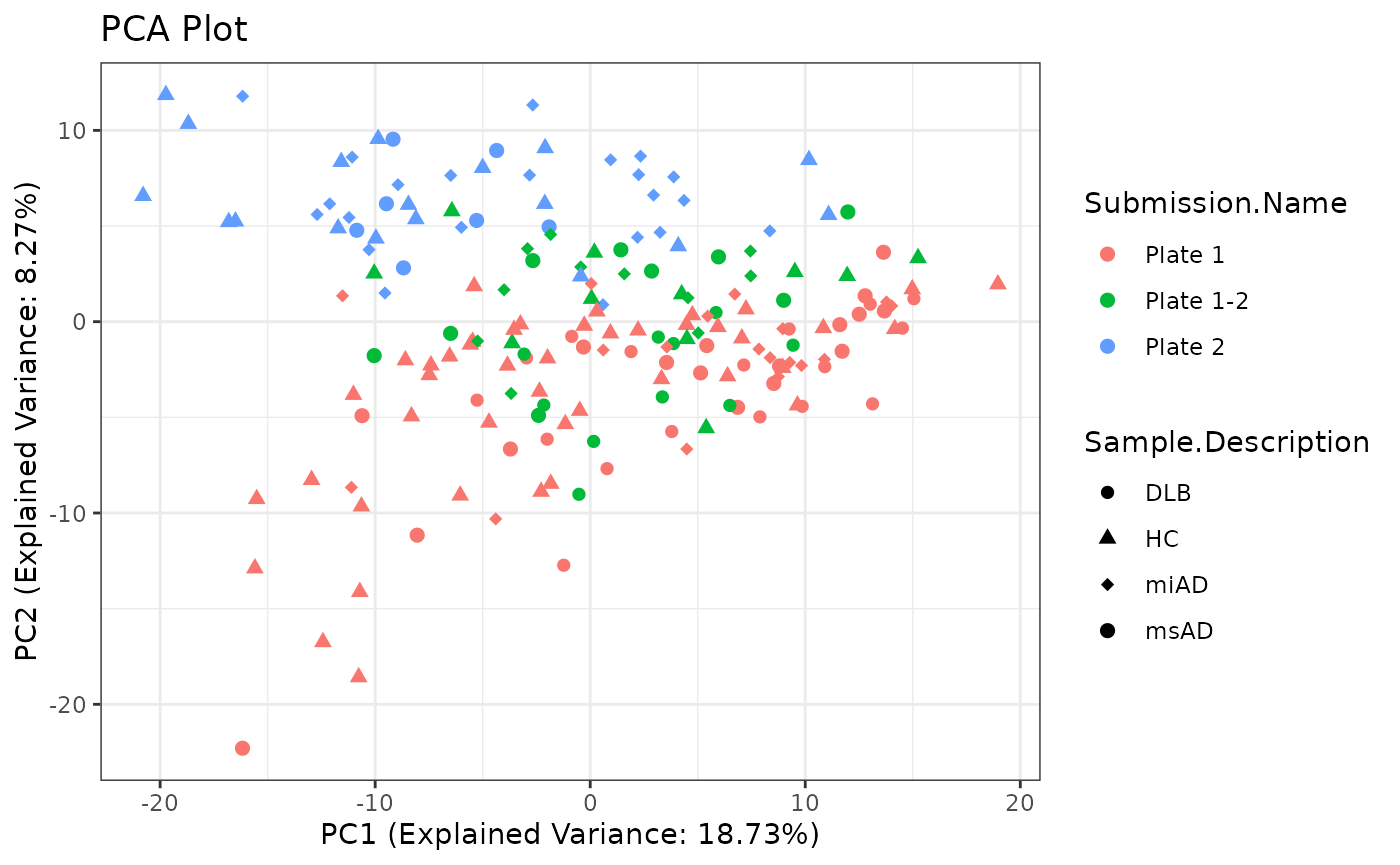
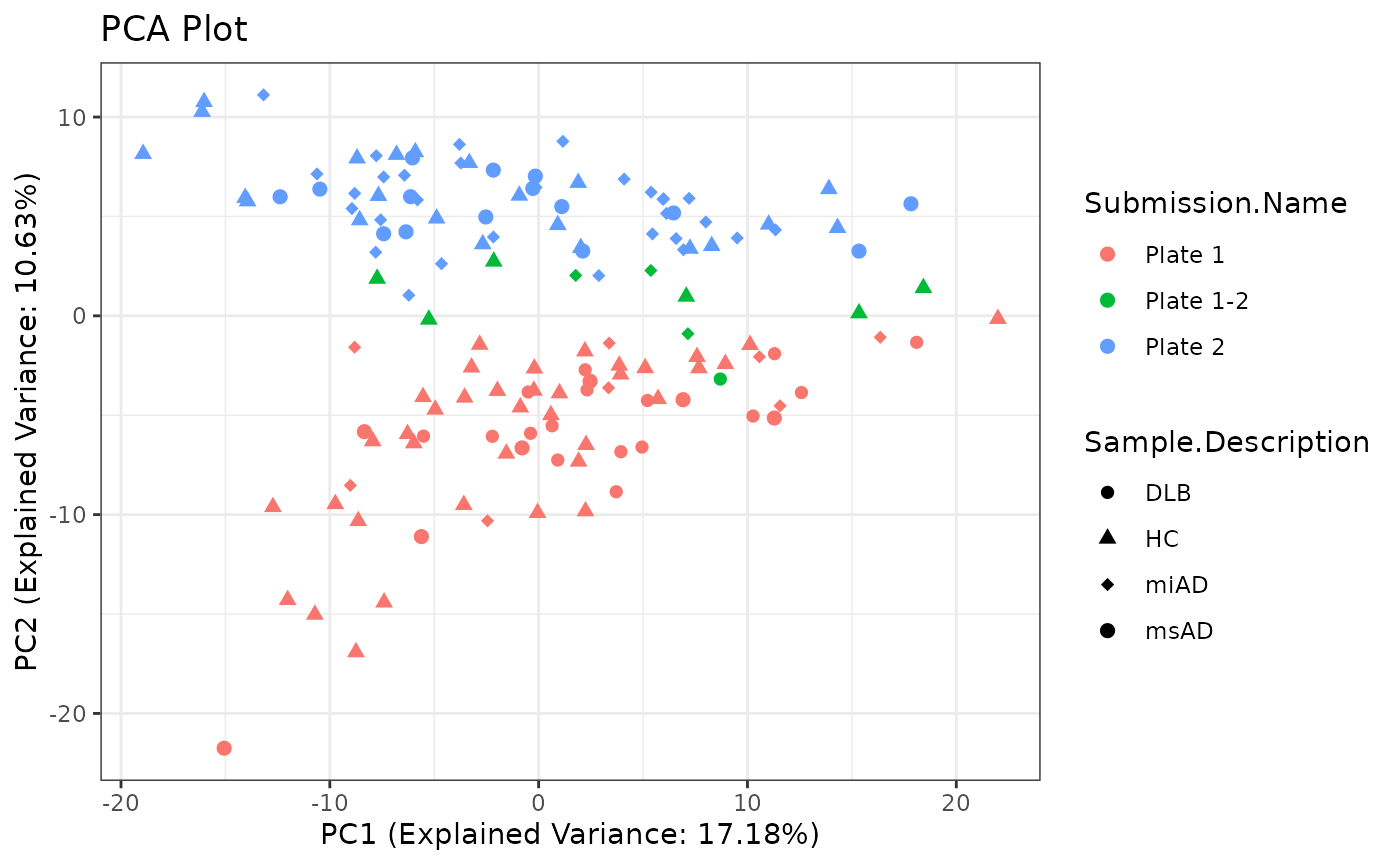
Deploying to gh-pages from @ danymukesha/dataPreparation@fd669b778015ecc51c47ba1c75c827176c8e0241 🚀

diff --git a/articles/dataProcessing_phase_2.html b/articles/dataProcessing_phase_2.html
@@ -420,6 +420,67 @@ interpretation.</p>
 <p><img src="dataProcessing_phase_2_files/figure-html/unnamed-chunk-18-1.png" width="700"></p>
 </div>
 <div class="section level2">
+<h2 id="performing-principal-component-analysis-pca-after-batch-effect-correction">Performing Principal Component Analysis (PCA After Batch Effect
+Correction)<a class="anchor" aria-label="anchor" href="#performing-principal-component-analysis-pca-after-batch-effect-correction"></a>
+</h2>
+<p>Principal Component Analysis (PCA) is a dimensionality reduction
+technique that helps visualize the variation in the dataset. Here, I
+perform PCA on the preprocessed data and create a PCA plot for
+visualization.</p>
+<div class="sourceCode" id="cb20"><pre class="downlit sourceCode r">
+<code class="sourceCode R"><span><span class="va">t</span> <span class="op">&lt;-</span> <span class="va">rBE</span></span>
+<span><span class="co"># Perform PCA</span></span>
+<span><span class="va">pca_result</span> <span class="op">&lt;-</span> <span class="fu"><a href="https://rdrr.io/r/stats/prcomp.html" class="external-link">prcomp</a></span><span class="op">(</span><span class="va">t</span>, scale. <span class="op">=</span> <span class="cn">TRUE</span>, center <span class="op">=</span> <span class="cn">TRUE</span><span class="op">)</span></span>
+<span></span>
+<span><span class="co"># Extract PCA scores</span></span>
+<span><span class="va">pca_scores</span> <span class="op">&lt;-</span> <span class="fu"><a href="https://rdrr.io/r/base/as.data.frame.html" class="external-link">as.data.frame</a></span><span class="op">(</span><span class="va">pca_result</span><span class="op">$</span><span class="va">x</span><span class="op">)</span></span>
+<span></span>
+<span><span class="co"># Combine PCA scores with categories for visualization</span></span>
+<span><span class="va">pca_data</span> <span class="op">&lt;-</span> <span class="fu"><a href="https://rdrr.io/r/base/cbind.html" class="external-link">cbind</a></span><span class="op">(</span><span class="va">pca_scores</span>, <span class="va">imputed_data</span><span class="op">$</span><span class="va">categories</span><span class="op">)</span></span>
+<span></span>
+<span><span class="co"># Create PCA plot</span></span>
+<span><span class="va">pca_plot</span> <span class="op">&lt;-</span> <span class="fu">ggplot2</span><span class="fu">::</span><span class="fu"><a href="https://ggplot2.tidyverse.org/reference/ggplot.html" class="external-link">ggplot</a></span><span class="op">(</span><span class="va">pca_data</span>, </span>
+<span>                            <span class="fu">ggplot2</span><span class="fu">::</span><span class="fu"><a href="https://ggplot2.tidyverse.org/reference/aes.html" class="external-link">aes</a></span><span class="op">(</span>x <span class="op">=</span> <span class="va">PC1</span>, y <span class="op">=</span> <span class="va">PC2</span>, </span>
+<span>                                         color <span class="op">=</span> <span class="va">Submission.Name</span>, </span>
+<span>                                         shape <span class="op">=</span> <span class="va">Sample.Description</span><span class="op">)</span><span class="op">)</span> <span class="op">+</span></span>
+<span>    <span class="fu">ggplot2</span><span class="fu">::</span><span class="fu"><a href="https://ggplot2.tidyverse.org/reference/geom_point.html" class="external-link">geom_point</a></span><span class="op">(</span>size <span class="op">=</span> <span class="fl">2</span><span class="op">)</span> <span class="op">+</span></span>
+<span>    <span class="fu">ggplot2</span><span class="fu">::</span><span class="fu"><a href="https://ggplot2.tidyverse.org/reference/scale_manual.html" class="external-link">scale_shape_manual</a></span><span class="op">(</span>values <span class="op">=</span> <span class="fu"><a href="https://rdrr.io/r/base/c.html" class="external-link">c</a></span><span class="op">(</span><span class="fl">16</span>, <span class="fl">17</span>, <span class="fl">18</span>, <span class="fl">19</span><span class="op">)</span><span class="op">)</span> <span class="op">+</span></span>
+<span>    <span class="fu">ggplot2</span><span class="fu">::</span><span class="fu"><a href="https://ggplot2.tidyverse.org/reference/ggtheme.html" class="external-link">theme_bw</a></span><span class="op">(</span><span class="op">)</span> <span class="op">+</span></span>
+<span>    <span class="fu">ggplot2</span><span class="fu">::</span><span class="fu"><a href="https://ggplot2.tidyverse.org/reference/labs.html" class="external-link">labs</a></span><span class="op">(</span></span>
+<span>      title <span class="op">=</span> <span class="st">"PCA Plot (After Batch Effect Correction)"</span>,</span>
+<span>      x <span class="op">=</span> <span class="fu"><a href="https://rdrr.io/r/base/paste.html" class="external-link">paste0</a></span><span class="op">(</span></span>
+<span>        <span class="st">"PC1 (Explained Variance: "</span>,</span>
+<span>        <span class="fu"><a href="https://rdrr.io/r/base/Round.html" class="external-link">round</a></span><span class="op">(</span><span class="va">pca_result</span><span class="op">$</span><span class="va">sdev</span><span class="op">[</span><span class="fl">1</span><span class="op">]</span> <span class="op">^</span> <span class="fl">2</span> <span class="op">/</span> <span class="fu"><a href="https://rdrr.io/r/base/sum.html" class="external-link">sum</a></span><span class="op">(</span><span class="va">pca_result</span><span class="op">$</span><span class="va">sdev</span> <span class="op">^</span> <span class="fl">2</span><span class="op">)</span> <span class="op">*</span> <span class="fl">100</span>, <span class="fl">2</span><span class="op">)</span>,</span>
+<span>        <span class="st">"%)"</span></span>
+<span>      <span class="op">)</span>,</span>
+<span>      y <span class="op">=</span> <span class="fu"><a href="https://rdrr.io/r/base/paste.html" class="external-link">paste0</a></span><span class="op">(</span></span>
+<span>        <span class="st">"PC2 (Explained Variance: "</span>,</span>
+<span>        <span class="fu"><a href="https://rdrr.io/r/base/Round.html" class="external-link">round</a></span><span class="op">(</span><span class="va">pca_result</span><span class="op">$</span><span class="va">sdev</span><span class="op">[</span><span class="fl">2</span><span class="op">]</span> <span class="op">^</span> <span class="fl">2</span> <span class="op">/</span> <span class="fu"><a href="https://rdrr.io/r/base/sum.html" class="external-link">sum</a></span><span class="op">(</span><span class="va">pca_result</span><span class="op">$</span><span class="va">sdev</span> <span class="op">^</span> <span class="fl">2</span><span class="op">)</span> <span class="op">*</span> <span class="fl">100</span>, <span class="fl">2</span><span class="op">)</span>,</span>
+<span>        <span class="st">"%)"</span></span>
+<span>      <span class="op">)</span></span>
+<span>    <span class="op">)</span></span>
+<span></span>
+<span><span class="co"># Display PCA plot</span></span>
+<span><span class="va">pca_plot</span></span></code></pre></div>
+<p><img src="dataProcessing_phase_2_files/figure-html/unnamed-chunk-20-1.png" width="700"></p>
+<div class="sourceCode" id="cb21"><pre class="downlit sourceCode r">
+<code class="sourceCode R"><span><span class="va">imputed_data</span><span class="op">$</span><span class="va">rBE</span> <span class="op">&lt;-</span> <span class="va">rBE</span></span>
+<span><span class="fu"><a href="https://rdrr.io/r/utils/write.table.html" class="external-link">write.csv</a></span><span class="op">(</span>x <span class="op">=</span> <span class="va">imputed_data</span><span class="op">$</span><span class="va">rBE</span>, </span>
+<span>          file <span class="op">=</span> <span class="st">"../inst/data_to_use/imputed_data_after_Batch_Correction.csv"</span>, </span>
+<span>          row.names <span class="op">=</span> <span class="cn">FALSE</span><span class="op">)</span></span>
+<span><span class="fu">usethis</span><span class="fu">::</span><span class="fu"><a href="https://usethis.r-lib.org/reference/use_data.html" class="external-link">use_data</a></span><span class="op">(</span><span class="va">imputed_data</span>, overwrite <span class="op">=</span> <span class="cn">TRUE</span><span class="op">)</span></span>
+<span><span class="co">#&gt; <span style="color: #00BB00;">✔</span> Setting active project to <span style="color: #0000BB;">'/home/runner/work/dataPreparation/dataPreparation'</span></span></span>
+<span><span class="co">#&gt; <span style="color: #00BB00;">✔</span> Saving <span style="color: #0000BB;">'imputed_data'</span> to <span style="color: #0000BB;">'data/imputed_data.rda'</span></span></span>
+<span><span class="co">#&gt; <span style="color: #BB0000;">•</span> Document your data (see <span style="color: #0000BB;">'https://r-pkgs.org/data.html'</span>)</span></span></code></pre></div>
+<div class="sourceCode" id="cb22"><pre class="downlit sourceCode r">
+<code class="sourceCode R"><span><span class="fu"><a href="https://rdrr.io/r/grDevices/png.html" class="external-link">png</a></span><span class="op">(</span><span class="st">"../man/figures/pca_plot_after_Batch_Correction.png"</span>, </span>
+<span>    width<span class="op">=</span><span class="fl">1600</span>, height<span class="op">=</span><span class="fl">1200</span>, res<span class="op">=</span><span class="fl">220</span><span class="op">)</span></span>
+<span><span class="fu"><a href="https://rdrr.io/r/base/print.html" class="external-link">print</a></span><span class="op">(</span><span class="va">pca_plot</span><span class="op">)</span></span>
+<span><span class="fu"><a href="https://rdrr.io/r/grDevices/dev.html" class="external-link">dev.off</a></span><span class="op">(</span><span class="op">)</span> </span>
+<span><span class="co">#&gt; agg_png </span></span>
+<span><span class="co">#&gt;       2</span></span></code></pre></div>
+</div>
+<div class="section level2">
 <h2 id="conclusion">Conclusion<a class="anchor" aria-label="anchor" href="#conclusion"></a>
 </h2>
 <p>In conclusion, this report highlights the importance of comprehensive
@@ -433,7 +494,8 @@ understanding of biological phenomena.</p>
 <div class="section level2">
 <h2 id="clean-up-environment">Clean up environment<a class="anchor" aria-label="anchor" href="#clean-up-environment"></a>
 </h2>
-<p>rm(list = ls())</p>
+<div class="sourceCode" id="cb23"><pre class="downlit sourceCode r">
+<code class="sourceCode R"><span><span class="fu"><a href="https://rdrr.io/r/base/rm.html" class="external-link">rm</a></span><span class="op">(</span>list <span class="op">=</span> <span class="fu"><a href="https://rdrr.io/r/base/ls.html" class="external-link">ls</a></span><span class="op">(</span><span class="op">)</span><span class="op">)</span></span></code></pre></div>
 </div>
   </main><aside class="col-md-3"><nav id="toc"><h2>On this page</h2>
     </nav></aside>

diff --git a/articles/dataProcessing_phase_1.html b/articles/dataProcessing_phase_1.html
@@ -106,7 +106,7 @@ normalized data. This data will be used for subsequent preprocessing
 steps.</p>
 <div class="sourceCode" id="cb2"><pre class="downlit sourceCode r">
 <code class="sourceCode R"><span><span class="co"># Read the Excel file containing normalized data</span></span>
-<span><span class="va">data</span> <span class="op">&lt;-</span> <span class="fu"><a href="https://rdrr.io/r/utils/read.table.html" class="external-link">read.table</a></span><span class="op">(</span><span class="st">"../inst/extdata/allbatches_uM_clean.txt"</span>, </span>
+<span><span class="va">data</span> <span class="op">&lt;-</span> <span class="fu"><a href="https://rdrr.io/r/utils/read.table.html" class="external-link">read.table</a></span><span class="op">(</span><span class="st">"../inst/extdata/allbatches_uM_clean_second_experiment.txt"</span>, </span>
 <span>                   sep <span class="op">=</span> <span class="st">"\t"</span>, header <span class="op">=</span> <span class="cn">TRUE</span><span class="op">)</span></span></code></pre></div>
 </div>
 </div>
@@ -228,12 +228,12 @@ analysis.</p>
 <span><span class="co">#&gt; <span style="color: #949494;"># A tibble: 6 × 416</span></span></span>
 <span><span class="co">#&gt;   Sample.Type Sample.Identification Gender   Age Sample.Description</span></span>
 <span><span class="co">#&gt;   <span style="color: #949494; font-style: italic;">&lt;chr&gt;</span>       <span style="color: #949494; font-style: italic;">&lt;chr&gt;</span>                 <span style="color: #949494; font-style: italic;">&lt;chr&gt;</span>  <span style="color: #949494; font-style: italic;">&lt;int&gt;</span> <span style="color: #949494; font-style: italic;">&lt;chr&gt;</span>             </span></span>
-<span><span class="co">#&gt; <span style="color: #BCBCBC;">1</span> Sample      F1800067              Female    93 DLB               </span></span>
-<span><span class="co">#&gt; <span style="color: #BCBCBC;">2</span> Sample      F1701006              Male      68 DLB               </span></span>
-<span><span class="co">#&gt; <span style="color: #BCBCBC;">3</span> Sample      F1915899              Female    78 msAD              </span></span>
-<span><span class="co">#&gt; <span style="color: #BCBCBC;">4</span> Sample      F1912538              Male      63 msAD              </span></span>
-<span><span class="co">#&gt; <span style="color: #BCBCBC;">5</span> Sample      F1815069              Male      83 miAD              </span></span>
-<span><span class="co">#&gt; <span style="color: #BCBCBC;">6</span> Sample      F1705317              Female    78 miAD              </span></span>
+<span><span class="co">#&gt; <span style="color: #BCBCBC;">1</span> Sample      F1815069              Male      83 miAD              </span></span>
+<span><span class="co">#&gt; <span style="color: #BCBCBC;">2</span> Sample      F1705317              Female    78 miAD              </span></span>
+<span><span class="co">#&gt; <span style="color: #BCBCBC;">3</span> Sample      F1702273              Female    67 DLB               </span></span>
+<span><span class="co">#&gt; <span style="color: #BCBCBC;">4</span> Sample      F1800377              Male      80 HC                </span></span>
+<span><span class="co">#&gt; <span style="color: #BCBCBC;">5</span> Sample      F1800082              Male      55 msAD              </span></span>
+<span><span class="co">#&gt; <span style="color: #BCBCBC;">6</span> Sample      F1823473              Female    85 HC                </span></span>
 <span><span class="co">#&gt; <span style="color: #949494;"># ℹ 411 more variables: Submission.Name &lt;chr&gt;, Material &lt;chr&gt;, AC.0.0. &lt;dbl&gt;,</span></span></span>
 <span><span class="co">#&gt; <span style="color: #949494;">#   AC.2.0. &lt;dbl&gt;, AC.3.0. &lt;dbl&gt;, AC.3.0.DC. &lt;dbl&gt;, AC.3.0.OH. &lt;dbl&gt;,</span></span></span>
 <span><span class="co">#&gt; <span style="color: #949494;">#   AC.3.1. &lt;dbl&gt;, AC.4.0. &lt;dbl&gt;, AC.4.0.DC. &lt;dbl&gt;, AC.4.0.OH. &lt;dbl&gt;,</span></span></span>
@@ -355,29 +355,29 @@ missingness and imputing missing values using the k-nearest neighbors
 <span><span class="co"># Remove rows with high missingness and impute missing values with k-nearest neighbors (knn)</span></span>
 <span><span class="va">elaborated_data</span> <span class="op">&lt;-</span> <span class="fu">dataPreparation</span><span class="fu">::</span><span class="fu"><a href="../reference/remove_high_missingness.html">remove_high_missingness</a></span><span class="op">(</span><span class="va">data</span><span class="op">)</span></span>
 <span><span class="co">#&gt; Columns removed due to more than 10 % missing values:</span></span>
-<span><span class="co">#&gt; AC.4.0. : 14.59459 % missing</span></span>
-<span><span class="co">#&gt; AC.4.0.DC. : 12.97297 % missing</span></span>
-<span><span class="co">#&gt; AC.4.1. : 14.59459 % missing</span></span>
-<span><span class="co">#&gt; AC.4.1.DC. : 12.97297 % missing</span></span>
-<span><span class="co">#&gt; AC.5.0.DC. : 12.97297 % missing</span></span>
-<span><span class="co">#&gt; AC.5.0.OH. : 12.97297 % missing</span></span>
-<span><span class="co">#&gt; AC.5.1.DC. : 12.97297 % missing</span></span>
-<span><span class="co">#&gt; AC.6.0. : 12.97297 % missing</span></span>
-<span><span class="co">#&gt; AC.6.0.DC. : 12.97297 % missing</span></span>
-<span><span class="co">#&gt; AC.6.1. : 12.97297 % missing</span></span>
-<span><span class="co">#&gt; AC.7.0. : 12.97297 % missing</span></span>
-<span><span class="co">#&gt; Ile : 25.40541 % missing</span></span>
-<span><span class="co">#&gt; xLeu : 41.08108 % missing</span></span>
-<span><span class="co">#&gt; PEA : 25.94595 % missing</span></span>
+<span><span class="co">#&gt; AC.4.0.DC. : 16.43836 % missing</span></span>
+<span><span class="co">#&gt; AC.4.1.DC. : 16.43836 % missing</span></span>
+<span><span class="co">#&gt; AC.5.0.DC. : 16.43836 % missing</span></span>
+<span><span class="co">#&gt; AC.5.0.OH. : 16.43836 % missing</span></span>
+<span><span class="co">#&gt; AC.5.1.DC. : 16.43836 % missing</span></span>
+<span><span class="co">#&gt; AC.6.0. : 16.43836 % missing</span></span>
+<span><span class="co">#&gt; AC.6.0.DC. : 16.43836 % missing</span></span>
+<span><span class="co">#&gt; AC.6.1. : 16.43836 % missing</span></span>
+<span><span class="co">#&gt; AC.7.0. : 16.43836 % missing</span></span>
+<span><span class="co">#&gt; Ile : 32.19178 % missing</span></span>
+<span><span class="co">#&gt; PEA : 32.87671 % missing</span></span>
+<span><span class="co">#&gt; Putrescine : 10.27397 % missing</span></span>
 <span><span class="co">#&gt; </span></span>
 <span><span class="co">#&gt; Rows removed due to more than 10 % missing values:</span></span>
-<span><span class="co">#&gt; Row 153 : 79.4621 % missing</span></span>
+<span><span class="co">#&gt; Row 128 : 79.2176 % missing</span></span>
 <span><span class="co">#&gt; </span></span>
 <span><span class="co">#&gt; Columns removed due to having  0  variance:</span></span>
 <span><span class="co">#&gt; Carnosine  </span></span>
 <span><span class="co">#&gt; LPC.9.0.  </span></span>
 <span><span class="co">#&gt; PC.30.2.  </span></span>
+<span><span class="co">#&gt; PC.34.0.  </span></span>
 <span><span class="co">#&gt; PC.O.31.1.  </span></span>
+<span><span class="co">#&gt; PC.O.33.1.  </span></span>
 <span><span class="co">#&gt; PC.O.33.4.  </span></span>
 <span><span class="co">#&gt; PC.O.38.1.  </span></span>
 <span><span class="co">#&gt; PC.O.44.3.</span></span>
@@ -428,8 +428,10 @@ technique that helps visualize the variation in the dataset. Here, I
 perform PCA on the preprocessed data and create a PCA plot for
 visualization.</p>
 <div class="sourceCode" id="cb15"><pre class="downlit sourceCode r">
-<code class="sourceCode R"><span><span class="co"># Perform PCA</span></span>
-<span><span class="va">pca_result</span> <span class="op">&lt;-</span> <span class="fu"><a href="https://rdrr.io/r/stats/prcomp.html" class="external-link">prcomp</a></span><span class="op">(</span><span class="va">imputed_data</span><span class="op">$</span><span class="va">data</span>, scale. <span class="op">=</span> <span class="cn">TRUE</span>, center <span class="op">=</span> <span class="cn">TRUE</span><span class="op">)</span></span>
+<code class="sourceCode R"><span><span class="co"># remove zero variance columns from the data set</span></span>
+<span><span class="va">t</span> <span class="op">&lt;-</span> <span class="va">imputed_data</span><span class="op">$</span><span class="va">data</span><span class="op">[</span> , <span class="fu"><a href="https://rdrr.io/r/base/which.html" class="external-link">which</a></span><span class="op">(</span><span class="fu"><a href="https://rdrr.io/r/base/apply.html" class="external-link">apply</a></span><span class="op">(</span><span class="va">imputed_data</span><span class="op">$</span><span class="va">data</span>, <span class="fl">2</span>, <span class="va">var</span><span class="op">)</span> <span class="op">!=</span> <span class="fl">0</span><span class="op">)</span><span class="op">]</span></span>
+<span><span class="co"># Perform PCA</span></span>
+<span><span class="va">pca_result</span> <span class="op">&lt;-</span> <span class="fu"><a href="https://rdrr.io/r/stats/prcomp.html" class="external-link">prcomp</a></span><span class="op">(</span><span class="va">t</span>, scale. <span class="op">=</span> <span class="cn">TRUE</span>, center <span class="op">=</span> <span class="cn">TRUE</span><span class="op">)</span></span>
 <span></span>
 <span><span class="co"># Extract PCA scores</span></span>
 <span><span class="va">pca_scores</span> <span class="op">&lt;-</span> <span class="fu"><a href="https://rdrr.io/r/base/as.data.frame.html" class="external-link">as.data.frame</a></span><span class="op">(</span><span class="va">pca_result</span><span class="op">$</span><span class="va">x</span><span class="op">)</span></span>
